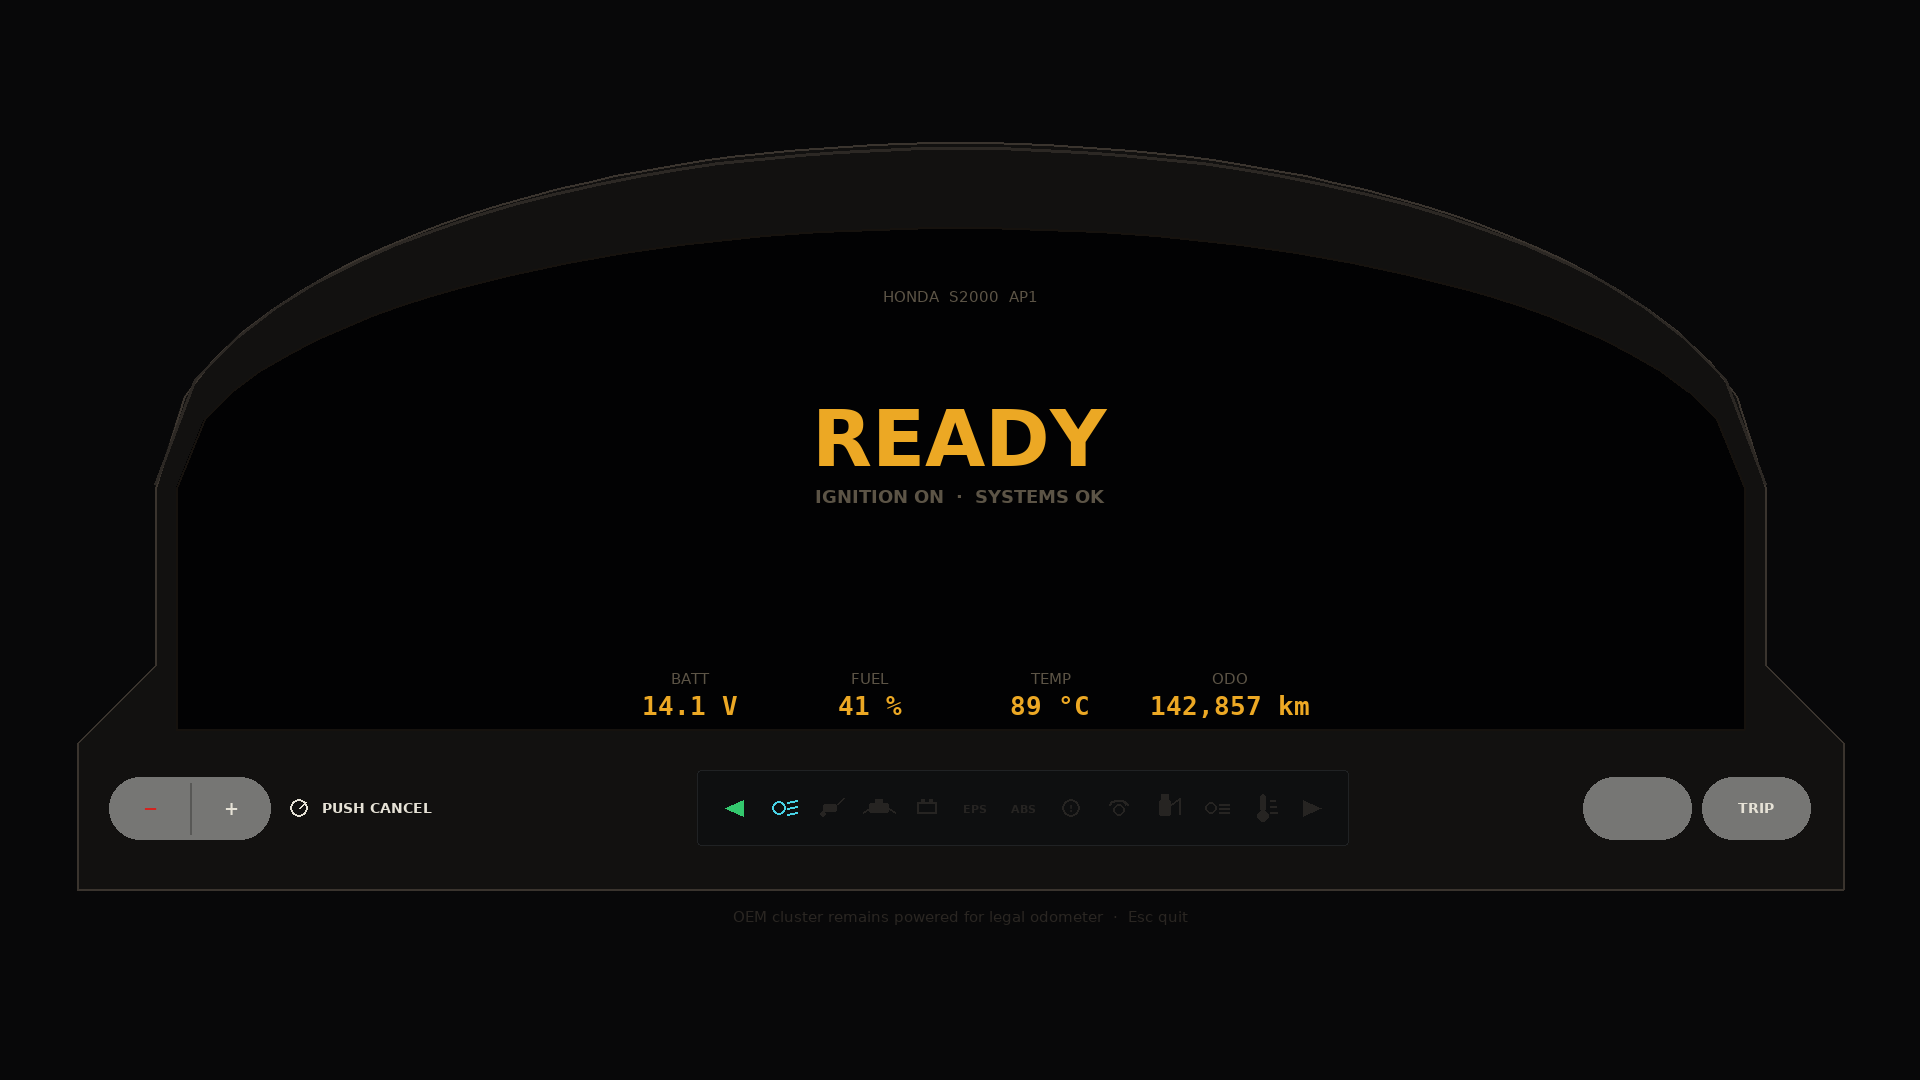
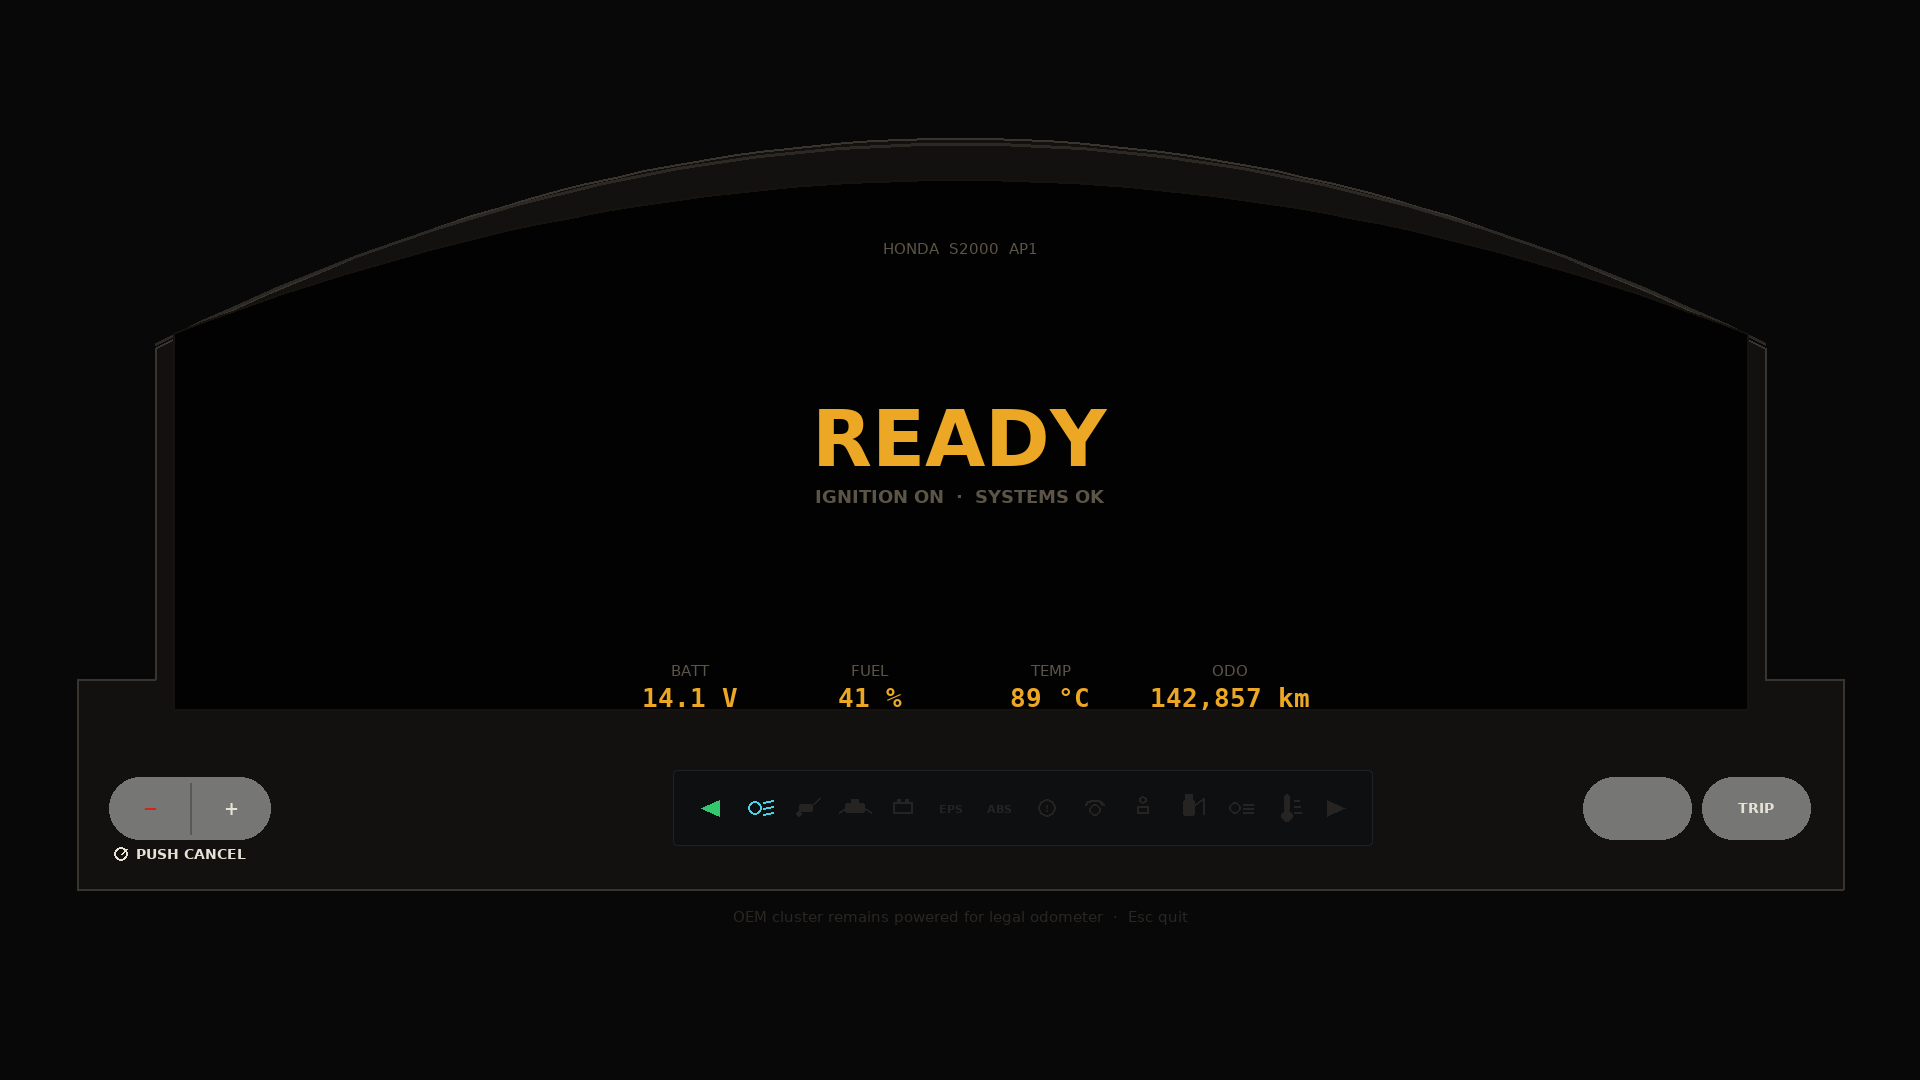
Match OEM flat lock: 28% parabola and 58–72% notches
Use the annotated elevation exactly: rectangular side notches, y=28u²
crown, TEMP/FUEL at (7.5%, 72%) / (74.5%, 72%) with 3% bar height,
speed at (50%, 40%) with units to the right, and PUSH CANCEL under
the rocker. Commit refs/flat SVG+PNG+DIMENSIONS.md.

diff --git a/src/gauge_ui.py b/src/gauge_ui.py
@@ -10,7 +10,7 @@ Reads Telemetry JSON lines from stdin (or --serial in Phase 2).
 Esc or Q quits. Space skips the boot intro.
 
 Face proportions are locked in `refs/flat/DIMENSIONS.md` (percent of the
-LCD aperture unless noted). Protocol JSON field names are unchanged.
+module bounding box). Protocol JSON field names are unchanged.
 """
 from __future__ import annotations
 
@@ -63,21 +63,24 @@ MODULE_X_PCT = 0.040
 MODULE_W_PCT = 0.920
 MODULE_ASPECT = 2.35
 # Within the module (0,0 = module top-left) — locked from the flat OEM drawing
-STEP_W_PCT = 0.044          # side notches / 45° inward step
-LAMP_Y_PCT = 0.805          # hardware strip (lamps + buttons)
+STEP_W_PCT = 0.044          # rectangular side-notch depth
+NOTCH_TOP_PCT = 0.58        # notch y-range (OEM lock)
+NOTCH_BOT_PCT = 0.72
+ARCH_RISE_PCT = 0.28        # y% = 28 * u² from the module top
+LAMP_Y_PCT = 0.805          # hardware strip centre-line
 BEZEL_H_PCT = 0.175
-LCD_INSET_X_PCT = 0.012
-LCD_TOP_PCT = 0.118
-LCD_BOTTOM_GAP_PCT = 0.018
-ARCH_N = 2.0                # parabola (u²) — OEM crown, not a semicircle
+LCD_INSET_X_PCT = 0.010
+LCD_TOP_PCT = 0.055
+LCD_BOTTOM_PCT = 0.76       # just under TEMP / FUEL
+ARCH_N = 2.0                # parabola (u²)
 TEMP_X_PCT, TEMP_Y_PCT, TEMP_W_PCT = 0.075, 0.72, 0.180
 FUEL_X_PCT, FUEL_Y_PCT, FUEL_W_PCT = 0.745, 0.72, 0.180
-BAR_H_PCT = 0.028
+BAR_H_PCT = 0.030
 SPEED_X_PCT, SPEED_Y_PCT = 0.50, 0.40
-ODO_Y_PCT = 0.72
-TACH_END_Y_PCT = 0.66
-TACH_PEAK_Y_PCT = 0.145
-TACH_INSET_X_PCT = 0.095
+ODO_Y_PCT = 0.50            # directly under the speed (OEM lock)
+TACH_END_Y_PCT = 0.64
+TACH_PEAK_Y_PCT = 0.12
+TACH_INSET_X_PCT = 0.090
 
 TEMP_SEGS = 14
 FUEL_SEGS = 16
@@ -102,6 +105,8 @@ class FaceGeom:
     hood_peak_y: int
     lcd_peak_y: int
     lcd_spring_y: int
+    notch_top_y: int
+    notch_bot_y: int
     temp: tuple[int, int, int, int]
     fuel: tuple[int, int, int, int]
     speed_c: tuple[int, int]
@@ -133,16 +138,17 @@ def build_face_geom(w: int = W, h: int = H) -> FaceGeom:
     step = _pct(mw * STEP_W_PCT)
     bezel_h = _pct(mh * BEZEL_H_PCT)
     bezel_y = my + _pct(mh * LAMP_Y_PCT)
+    notch_top_y = my + _pct(mh * NOTCH_TOP_PCT)
+    notch_bot_y = my + _pct(mh * NOTCH_BOT_PCT)
     inset = _pct(mw * LCD_INSET_X_PCT)
     lcd_x = mx + step + inset
     lcd_w = mw - 2 * step - 2 * inset
-    lcd_bottom = bezel_y - _pct(mh * LCD_BOTTOM_GAP_PCT)
+    lcd_bottom = my + _pct(mh * LCD_BOTTOM_PCT)
     lcd_peak = my + _pct(mh * LCD_TOP_PCT)
-    # Springing line low enough that the aperture is an arch, not a rounded rect
-    spring = lcd_peak + _pct((lcd_bottom - lcd_peak) * 0.52)
+    spring = my + _pct(mh * ARCH_RISE_PCT)
     lcd_y = lcd_peak
     lcd_h = lcd_bottom - lcd_peak
-    lcd_spring = spring
+    lcd_spring = spring - _pct(mh * 0.02)
 
     bar_h = max(10, _pct(mh * BAR_H_PCT))
     temp = (
@@ -191,7 +197,7 @@ def build_face_geom(w: int = W, h: int = H) -> FaceGeom:
     band_h = _pct(bezel_h * 0.58)
     band_y = bezel_y + (bezel_h - band_h) // 2
     # Hug the 13 OEM icons (48 px pitch) so the band is dense, not a hollow gap
-    pack_w = 13 * 48 + 28
+    pack_w = 14 * 48 + 28
     gap_l = rocker[0] + rocker_w + _pct(mw * 0.118)
     gap_r = trip_blank[0] - 16
     mid = (gap_l + gap_r) // 2
@@ -203,9 +209,11 @@ def build_face_geom(w: int = W, h: int = H) -> FaceGeom:
         bezel=(mx, bezel_y, mw, bezel_h),
         step=step,
         spring_y=spring,
-        hood_peak_y=my + 4,
+        hood_peak_y=my,
         lcd_peak_y=lcd_peak,
         lcd_spring_y=lcd_spring,
+        notch_top_y=notch_top_y,
+        notch_bot_y=notch_bot_y,
         temp=temp,
         fuel=fuel,
         speed_c=(cx, my + _pct(mh * SPEED_Y_PCT)),
@@ -493,38 +501,40 @@ def arch_points(
     n: float = ARCH_N,
     steps: int = 56,
 ) -> list[tuple[int, int]]:
-    """Flattened superellipse arch. n>2 = flatter crown, steeper sides."""
+    """OEM lock: y = y_peak + rise * u²  (n is kept for call-site compatibility)."""
+    del n
     rise = y_spring - y_peak
     pts: list[tuple[int, int]] = []
     for i in range(steps + 1):
         t = i / steps
         u = 2.0 * t - 1.0
         x = x0 + (x1 - x0) * t
-        y = y_spring - rise * (1.0 - abs(u) ** n) ** (1.0 / n)
+        y = y_peak + rise * u * u
         pts.append((int(round(x)), int(round(y))))
     return pts
 
 
 def hood_outer_points(g: FaceGeom = FACE) -> list[tuple[int, int]]:
-    """Flat bottom, short vertical rise, 45° inward step, vertical sides, arch."""
+    """Flat bottom, rectangular side notches (58–72%), parabolic crown (28% rise)."""
     mx, my, mw, mh = g.module
     step = g.step
-    bezel_top = g.bezel[1]
     lx = mx + step
     rx = mx + mw - step
     pts: list[tuple[int, int]] = [
         (mx, my + mh),
         (mx + mw, my + mh),
-        (mx + mw, bezel_top),
-        (rx, bezel_top - step),
+        (mx + mw, g.notch_bot_y),
+        (rx, g.notch_bot_y),
+        (rx, g.notch_top_y),
         (rx, g.spring_y),
     ]
     pts.extend(arch_points(rx, lx, g.hood_peak_y, g.spring_y, n=g.arch_n))
     pts.extend(
         [
             (lx, g.spring_y),
-            (lx, bezel_top - step),
-            (mx, bezel_top),
+            (lx, g.notch_top_y),
+            (lx, g.notch_bot_y),
+            (mx, g.notch_bot_y),
         ]
     )
     return pts
@@ -748,25 +758,29 @@ def draw_fuel_bar(pygame, fonts, surf, frac: float, low: bool, g: FaceGeom = FAC
 
 def draw_speed(fonts, surf, speed: float, g: FaceGeom = FACE) -> None:
     digits = f"{int(round(clamp(speed, 0.0, 399.0))):d}"
-    blit_text(surf, fonts["speed"], digits, AMBER, g.speed_c, "center")
-    blit_text(surf, fonts["label"], "km/h", DIM, (g.speed_c[0], g.speed_c[1] + 64), "center")
+    cx, cy = g.speed_c
+    img = fonts["speed"].render(digits, True, AMBER)
+    rect = img.get_rect(center=(cx, cy))
+    surf.blit(img, rect)
+    # OEM lock: units sit to the right of the digits, not underneath
+    unit_x = rect.right + 16
+    blit_text(surf, fonts["label"], "km/h", AMBER, (unit_x, cy - 10), "midleft")
+    blit_text(surf, fonts["micro"], "mph", DIM, (unit_x, cy + 16), "midleft")
 
 
 def draw_odo_row(fonts, surf, face: DisplayState, batt_warn: bool, g: FaceGeom = FACE) -> None:
+    """ODO / TRIP directly under the speed, matching the flat lock drawing."""
     cx, y = g.odo_c
-    # Single baseline with TEMP / FUEL so the lower face is not a hollow band
-    blit_text(surf, fonts["micro"], "ODO", DIM, (cx - 168, y - 16), "center")
-    blit_text(surf, fonts["readout"], f"{face.odo_km:,.1f}", AMBER, (cx - 168, y + 6), "center")
-    blit_text(surf, fonts["micro"], "TRIP", DIM, (cx + 8, y - 16), "center")
-    blit_text(surf, fonts["readout"], f"{face.trip_km:,.1f}", AMBER, (cx + 8, y + 6), "center")
-    blit_text(surf, fonts["micro"], "BATT", DIM, (cx + 168, y - 16), "center")
+    batt = f"{face.batt_v:.1f}V"
+    line = f"ODO  {face.odo_km:07.1f}    TRIP  {face.trip_km:05.1f}"
+    blit_text(surf, fonts["readout"], line, AMBER, (cx, y), "center")
     blit_text(
         surf,
-        fonts["readout"],
-        f"{face.batt_v:.1f} V",
-        RED if batt_warn else AMBER,
-        (cx + 168, y + 6),
-        "center",
+        fonts["micro"],
+        batt,
+        RED if batt_warn else DIM,
+        (cx + 250, y),
+        "midleft",
     )
 
 
@@ -788,6 +802,7 @@ def _lamp_spec(face: DisplayState, bulb_check: bool) -> list[tuple[str, bool, tu
         ("abs", flag("abs"), ORANGE),
         ("brake", flag("brake"), RED),
         ("airbag", flag("airbag"), RED),
+        ("seat", flag("seatbelt"), RED),
         ("fuel", flag("fuel_low", face.fuel_pct < FUEL_LOW_PCT), ORANGE),
         ("fog", flag("fog"), GREEN),
         ("hot", flag("ect_hot", face.ect_c >= ECT_HOT_C), RED),
@@ -827,6 +842,9 @@ def _draw_lamp_icon(pygame, surf, kind: str, cx: int, cy: int, col) -> None:
     elif kind == "airbag":
         pygame.draw.circle(surf, col, (cx, cy + 2), 6, 2)
         pygame.draw.arc(surf, col, pygame.Rect(cx - 10, cy - 8, 20, 14), 0.2, 2.9, 2)
+    elif kind == "seat":
+        pygame.draw.rect(surf, col, pygame.Rect(cx - 6, cy - 2, 12, 8), width=2)
+        pygame.draw.circle(surf, col, (cx, cy - 8), 4, 2)
     elif kind == "fuel":
         _pump_icon(pygame, surf, cx, cy, col)
     elif kind == "fog":
@@ -854,12 +872,12 @@ def draw_hardware_strip(
     blit_text(surf, fonts["tiny"], "−", RED, (rx + rw * 0.25, ry + rh // 2), "center")
     blit_text(surf, fonts["tiny"], "+", WHITE, (rx + rw * 0.75, ry + rh // 2), "center")
 
-    # Brightness pictogram (dial + needle) then PUSH CANCEL
-    dial_x = rx + rw + 28
-    dial_y = ry + rh // 2
-    pygame.draw.circle(surf, WHITE, (dial_x, dial_y), 9, 2)
-    pygame.draw.line(surf, WHITE, (dial_x, dial_y), (dial_x + 6, dial_y - 6), 2)
-    blit_text(surf, fonts["lamp"], "PUSH CANCEL", WHITE, (dial_x + 78, dial_y), "center")
+    # OEM lock: brightness dial + PUSH CANCEL sit under the rocker
+    dial_x = rx + 12
+    dial_y = ry + rh + 14
+    pygame.draw.circle(surf, WHITE, (dial_x, dial_y), 7, 2)
+    pygame.draw.line(surf, WHITE, (dial_x, dial_y), (dial_x + 5, dial_y - 5), 2)
+    blit_text(surf, fonts["lamp"], "PUSH CANCEL", WHITE, (dial_x + 70, dial_y), "center")
 
     bx, by, bw, bh = g.lamp_band
     pygame.draw.rect(surf, BEZEL_BAND, pygame.Rect(bx, by, bw, bh), border_radius=4)
@@ -896,7 +914,7 @@ def draw_ready_card(fonts, surf, face: DisplayState, g: FaceGeom = FACE) -> None
         ("TEMP", f"{face.ect_c:.0f} °C"),
         ("ODO", f"{face.odo_km:,.0f} km"),
     ]
-    y = g.odo_c[1]
+    y = g.temp[1] - 8
     x0 = cx - 270
     for i, (name, val) in enumerate(chips):
         x = x0 + i * 180

diff --git a/tests/test_gauge_ui.py b/tests/test_gauge_ui.py
@@ -10,8 +10,11 @@ from pathlib import Path
 sys.path.insert(0, str(Path(__file__).resolve().parents[1] / "src"))
 
 from gauge_ui import (  # noqa: E402
+    ARCH_RISE_PCT,
     FACE,
     MODULE_ASPECT,
+    NOTCH_BOT_PCT,
+    NOTCH_TOP_PCT,
     REDLINE_BLOCKS,
     DisplayState,
     PHASE_READY_S,
@@ -163,6 +166,16 @@ class FaceGeomTests(unittest.TestCase):
 
     def test_five_redline_blocks(self) -> None:
         self.assertEqual(REDLINE_BLOCKS, 5)
+
+    def test_notch_and_arch_lock(self) -> None:
+        mx, my, mw, mh = FACE.module
+        self.assertAlmostEqual(NOTCH_TOP_PCT, 0.58)
+        self.assertAlmostEqual(NOTCH_BOT_PCT, 0.72)
+        self.assertAlmostEqual(ARCH_RISE_PCT, 0.28)
+        self.assertAlmostEqual((FACE.notch_top_y - my) / mh, 0.58, delta=0.015)
+        self.assertAlmostEqual((FACE.notch_bot_y - my) / mh, 0.72, delta=0.015)
+        self.assertAlmostEqual((FACE.spring_y - my) / mh, 0.28, delta=0.02)
+        self.assertEqual(FACE.hood_peak_y, my)
 
 
 if __name__ == "__main__":

diff --git a/refs/flat/DIMENSIONS.md b/refs/flat/DIMENSIONS.md
@@ -1,58 +1,61 @@
 # AP1 face dimensions (flat / orthographic)
 
-Lock file for the Phase 1 cluster. Percentages match the flat OEM elevation
-(JDMaster face + TEMP / FUEL / bezel crops). Future UI edits should change
-these numbers — not invent a new layout family.
+Canonical lock for the Phase 1 cluster. Copied from the OEM flat elevation
+(`ap1_cluster_flat`). Percentages are of the **module bounding box**, origin
+top-left. Future UI edits change these numbers — they do not invent a new
+layout family.
 
-Coordinate system:
+Physical envelope (OEM face): **170 mm × 72.3 mm** → aspect **2.35:1**.
 
-- **Canvas** — 1920×1080, origin top-left.
-- **Module** — hooded cluster. Width is 92% of the canvas; height is width /
-  **2.35**. Origin of the percentages below is the **module** top-left.
-- No perspective / 3D skew.
-
-## Module (canvas)
+## Module on the 1920×1080 canvas
 
 | Item | Value |
 | --- | --- |
 | x | 4.0% of canvas |
 | w | 92.0% of canvas |
 | aspect (w:h) | **2.35:1** |
-| y | centred, nudged up for the caption |
 
-## Locked layout (percent of module)
+## Silhouette (percent of module)
+
+| Item | Value |
+| --- | --- |
+| Bottom | **flat** |
+| Side notches | rectangular, **y = 58–72%**, depth 4.4% of width |
+| Top arch | parabola **y% = 28 × u²**, u ∈ [−1, 1], rise **28%** |
+| Arch peak | y = 0% (module top) |
+| Arch spring | y = 28% |
+
+## Face layout (percent of module)
 
 | Item | Placement |
 | --- | --- |
-| Silhouette | **flat bottom**, **side notches** (4.4% step), **parabolic** top arch (`n = 2`) |
-| Speed | centre **(50%, 40%)** |
-| TEMP bar | horizontal C–H, origin **(7.5%, 72%)**, width 18.0%, height 2.8% |
-| FUEL bar | horizontal E–F, origin **(74.5%, 72%)**, width 18.0%, height 2.8% |
-| ODO / TRIP / BATT | same baseline as TEMP / FUEL (y = 72%) |
-| Lamp / hardware strip | y ≈ **80.5%**, height 17.5% |
-| Tach ends | ~9.5% in from LCD sides, y ≈ 66% (above TEMP / FUEL) |
-| Tach peak | 50% x, y ≈ 14.5% |
-| Redline | **five** thick blocks from 8 → 9 |
-| Tach numerals | **inside** the tick arc |
+| Speed centre | **(50%, 40%)** — units (`km/h`, `mph`) to the **right** of the digits |
+| ODO / TRIP | directly under the speed (~50% y): `ODO 0000000 TRIP 000.0` |
+| TEMP bar | horizontal C–H at **(7.5%, 72.0%)**, **w = 18%**, **h = 3.0%** |
+| FUEL bar | horizontal E–F at **(74.5%, 72.0%)**, same w / h as TEMP |
+| TEMP icon | thermometer above **C** |
+| FUEL icon | pump above **F** |
+| Lamp / hardware strip | y ≈ **80.5%** |
+| Tach 0–9 | follows the arch; numerals inside the ticks |
+| Redline | thick blocks **8–9** (five blocks) |
 
 Hardware strip, left → right:
 
-- `−/+` rocker + brightness dial + **PUSH CANCEL**
-- Dense icon lamp band (turn, HI, oil, CEL, battery, EPS, ABS, brake, airbag, fuel, fog, hot, turn)
+- `−/+` rocker; brightness dial + **PUSH CANCEL** under the rocker
+- Dense icon lamps: battery, oil, CEL, EPS, brake, ABS, SRS, seatbelt, …
 - Blank oval + **TRIP**
 
-TEMP is **not** a tall vertical stack. Both corner gauges are short horizontal
-bars on the same y. The tach 0-mark sits above TEMP; 9 sits above FUEL.
+TEMP is **not** a tall vertical stack. Both corner gauges share y = 72%.
 
 Protocol JSON fields stay `rpm`, `speed_kmh`, `fuel_pct`, `ect_c`, `batt_v`,
-`odo_km`, plus the existing `lamps` keys. Extra lamp keys (`eps`, `brake`,
-`airbag`) are optional and default off.
+`odo_km`, plus the existing `lamps` keys.
 
 ## What not to regress
 
 - Vertical TEMP on the mid-face
-- FUEL floating at mid-right, unmatched to TEMP
+- 45° chamfer instead of the **rectangular** 58–72% notches
+- Semicircle / superellipse crown instead of **y = 28 u²**
+- Units stacked under the speed
 - Lamps as large labelled chips on the LCD
-- Rounded “app chrome” pill instead of the notched hood
-- Fake 3D cabin ellipses / drop-shadow skew
+- Fake 3D cabin ellipses
 - Module aspect drifting off **2.35:1**

diff --git a/README.md b/README.md
@@ -11,8 +11,9 @@ JSON over UART (`src/serial_reader.py`).
 Repo: `johnnyhuy/s2000-ap1-digital-dash`.
 
 Proportions are locked in [`refs/flat/DIMENSIONS.md`](refs/flat/DIMENSIONS.md)
-(flat SVG / PNG: [`refs/flat/ap1_face.svg`](refs/flat/ap1_face.svg),
-[`refs/flat/ap1_face.png`](refs/flat/ap1_face.png)). Module aspect is **2.35:1**.
+(flat lock: [`refs/flat/ap1_cluster_flat.svg`](refs/flat/ap1_cluster_flat.svg),
+[`refs/flat/ap1_cluster_flat.png`](refs/flat/ap1_cluster_flat.png)).
+Module aspect is **2.35:1**.
 
 ## Face (AP1 OEM geometry)
 
